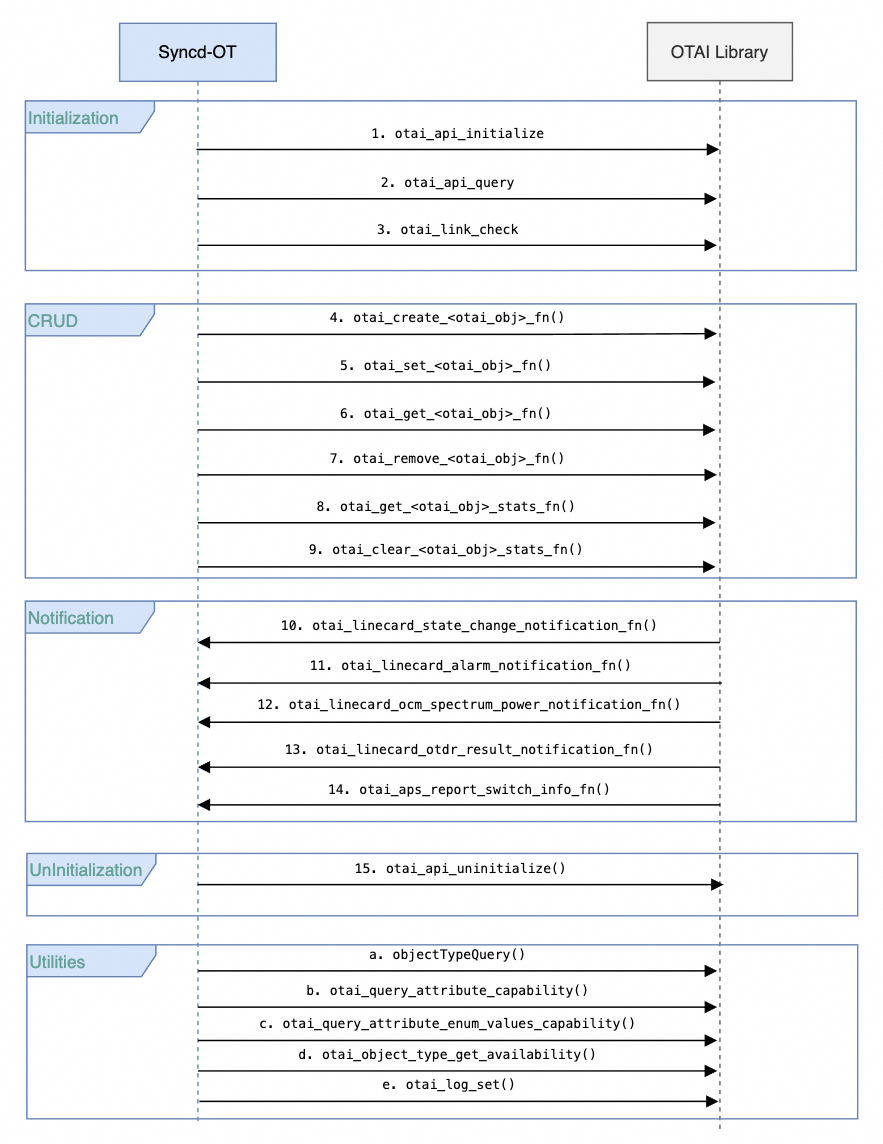
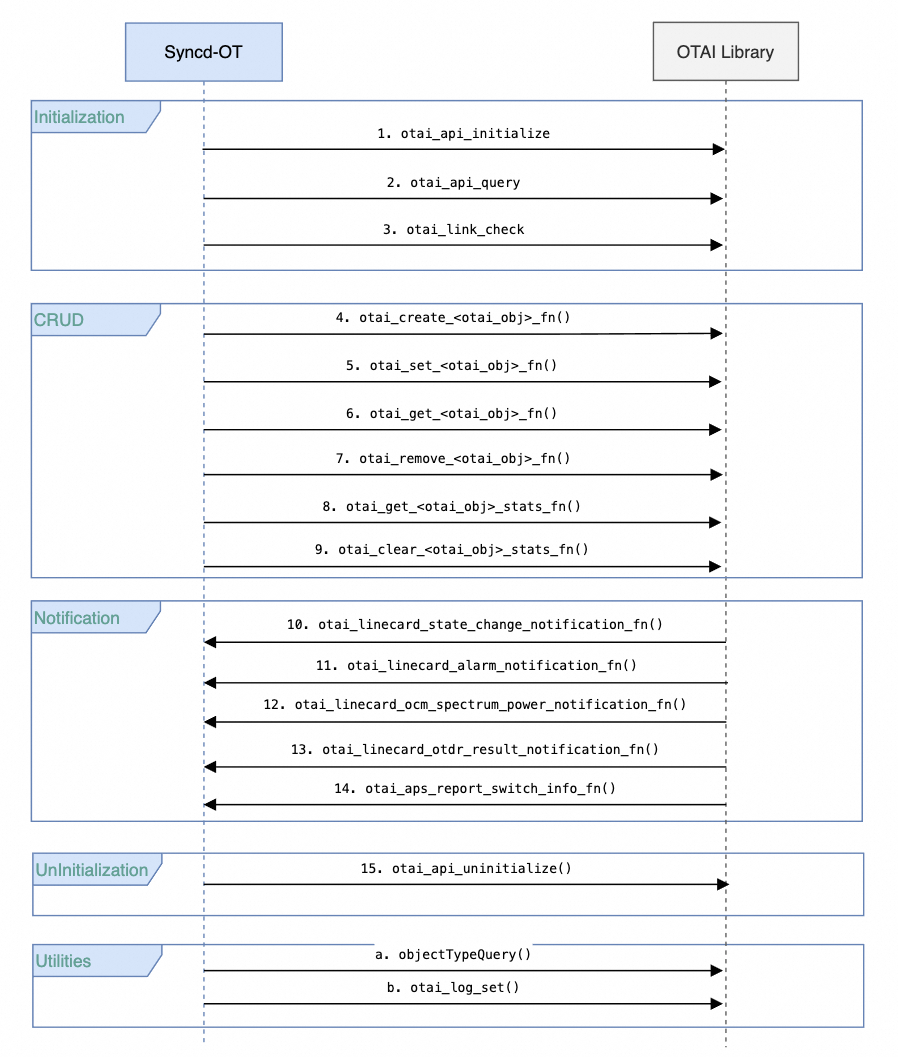
add PM examples and update OTAI API flow

Changed region(s): [[0.0, 0.0, 0.9785, 0.9991]]

diff --git a/doc/otn/otn_syncd_hld.md b/doc/otn/otn_syncd_hld.md
@@ -6,6 +6,7 @@
 Rev | Rev	Date	| Author	| Change Description
 ---------|--------------|-----------|-------------------
 |v0.1 |28/03/2024  |Weitang Zheng | Initial version
+|v0.2 |28/08/2024  |Weitang Zheng | update PM section and delete OTAI capability APIs
 
 ### Scope  
 
@@ -24,6 +25,8 @@ OSC| Optical Supervisory Channel
 OLP| Optical Line Protection
 VOA|Optical Attenuator
 OTDR| Optical Time Domain Reflectometer
+OCH| Optical Channel
+OID| Object ID
 
 
 
@@ -108,6 +111,28 @@ The FlexCounter module in Syncd-OT subscribes the FlexCounter database, and init
 
 The PM module accumulates these sampled gauge and counter data within 15 minutes and 24 hours interval, and saves these current PM data to counter_db. When the timer reached 15 minutes and 24 hours window, these PM data are saved to the history_db as well.
 
+##### 2.2.1 PM and status sampling example
+In a SONiC system, to configure an OTAI object (such as OCH) for PM and status sampling, the device vendor must define the default optical linecard and flexcounter configurations. Once defined, the OTSS and Syncd-OT services will create the OTAI objects in ASIC_DB and begin sampling their status and PM data.
+1. define the optical default configuration in the `/etc/sonic/config_dbx.json`, the `x` stands for the AISC number.
+2. define the flexcounter configuration in the `/etc/sonic/P230C/flexcounter.json`, the `P230C` stands for the optical linecard type name, device vendor can change the linecard name to the other name.
+
+For example, device vendor defines the OCH object in `/etc/sonic/config_dbx.json`, the OCH name is `OCH-1-1-L1`. OTSS and Syncd-OT can create the OTAI object in ASIC_DB with the unique OTAI Object ID (OID) `ASIC_STATE:OTAI_OBJECT_TYPE_OCH:oid:0x800000000002a`, and a name dictionary `COUNTERS_OCH_NAME_MAP` to map the OID to the OCH name.
+
+<img src="../../images/otn/PM_create_OCH_OTAI_object.png" alt="Create OCH OTAI object" style="zoom: 50%;" />
+
+
+---
+***NOTE***
+
+Device vendor can change and customize the OCH name to any name, but the name must be unique in the configuration file.
+
+---
+
+Device vendor can define the flexcounter configuration for each optical linecard, the configuration includes all the OTAI sampling groups and counter IDs for each OTAI object. Then OTSS and Syncd-OT loads these configurations and initialize the FlexCounter module. Based on the name dictionary `COUNTERS_OCH_NAME_MAP`, it can save the sampled OCH status in `"OCH|OCH-1-1-L1"` table in state_db, and PM data in `"OCH:OCH-1-1-L1_InputPower:15_pm_current"` in Counter_DB.
+
+<img src="../../images/otn/PM_sample_OCH_PM_and_status.png" alt="Sample OCH OTAI object PM and status" style="zoom: 50%;" />
+
+
 #### 2.3 Notification handler
 The notification handler provides a mechanism to register and handle the events from an optical linecard. For instance, the alarm notification, the OCM spectrum data reporting notification, the OTDR scanning data reporting notification, etc.  
 
@@ -186,11 +211,8 @@ Vendor OTAI library implements these OTAI APIs and provides Syncd-OT the ability
 15. `otai_api_uninitialize()`, uninitialize OTAI APIs.
 
 Here are the utility APIs.  
-a. `objectTypeQuery()`, return the OTAI object type if the otai_object_id is valid, otherwise return NULL.  
-b. `otai_query_attribute_capability()`, query an attribute capability.  
-c. `otai_query_attribute_enum_values_capability()`, query an enum attribute list of implemented enum values.  
-d. `otai_object_type_get_availability()`, query an OTAI object's attributes availability.  
-e. `otai_log_set()`, set log level for an OTAI API module 
+a. `objectTypeQuery()`, return the OTAI object type if the otai_object_id is valid, otherwise return NULL.   
+b. `otai_log_set()`, set log level for an OTAI API module 
 
 
 ### 4 Tests
